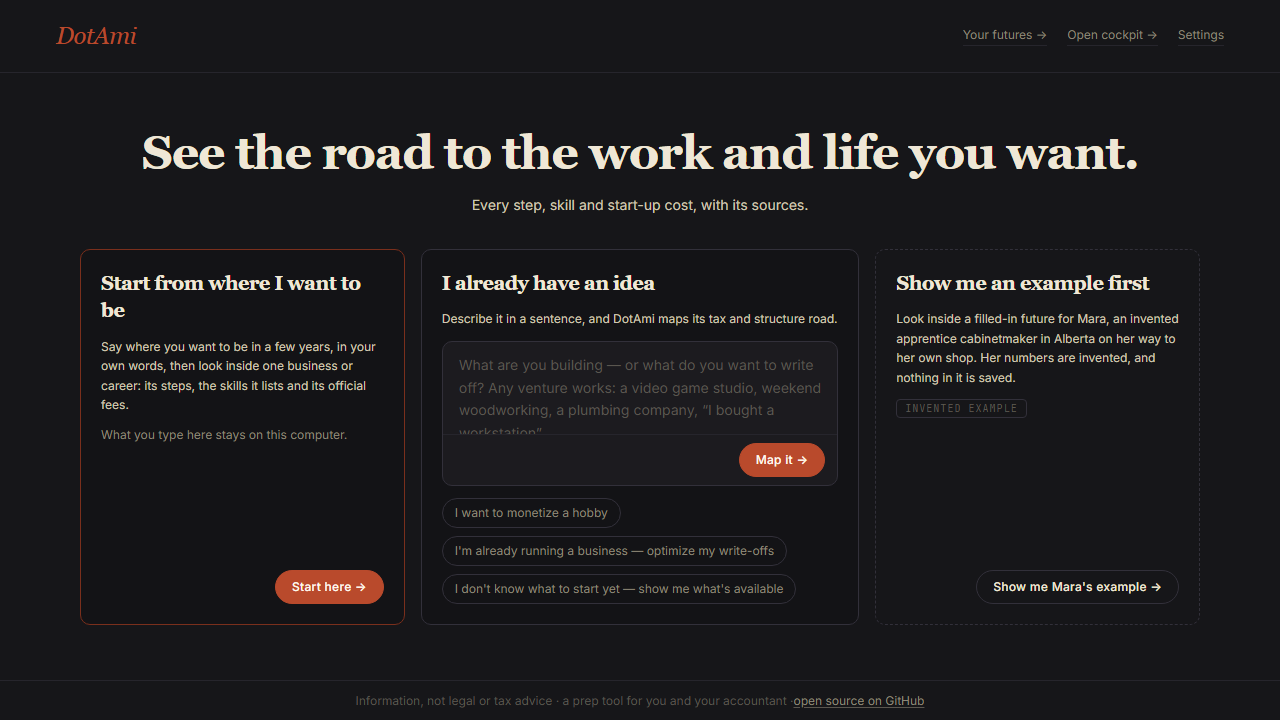
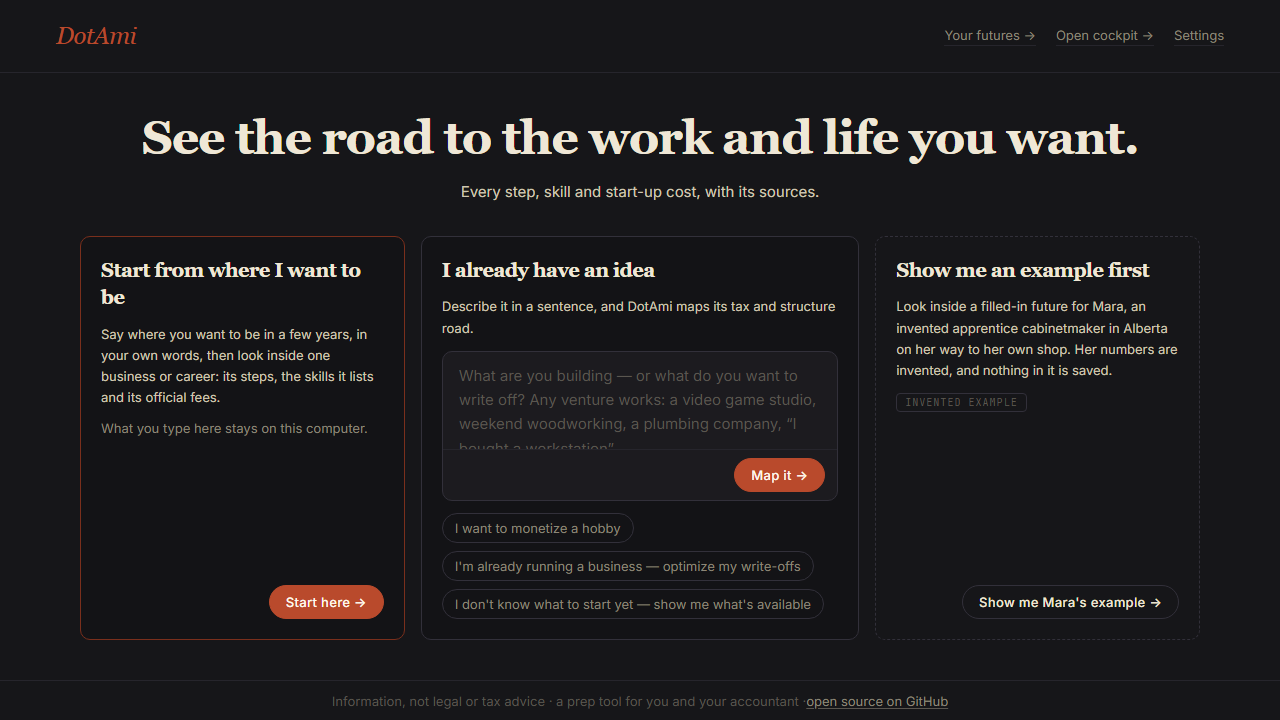
fix: no text smaller than before the type scale (body 13, lead 15, title 19, display 28)
A review found the type scale's first values took text a person reads
down a size from main: the default running text (app/layout.tsx and the
two journey layouts), Your plan's article, the front door's door bodies
and five cockpit panels 13 px to 12; the intake's and Your destination's
boxes, the map's column headings and the front door's subline 15 to 14;
Your plan's title 28 to 26.

Each named size is now the largest of the old sizes it stands in for:
body 13 (11-13 px and text-xs), lead 15 (14-15 and text-sm), title 19
(16-19, text-base, text-lg), display 28 (26-28); label 9.5 and small
10.5 already were. Still six sizes, so no screen counts more distinct
sizes and the smallest text is unchanged. Measured in Chromium, every
piece of text on nine main screens against main 6a4b4ed: 112 pieces
smaller by more than half a pixel before this, none after.

The site footer's side padding on a phone goes from 32 to 16 px, so its
line, now 13 px, stays on two lines inside its 40 px.

e2e/budgets.ts: the comment says what Chromium on Windows measures now
(controls within the budgets everywhere, under them at eight sizes) in
place of two Windows caveats and "controls measured the same as before",
and WINDOWS_EXTRA is empty again: Mara's example at laptop size counts
21 on Windows, within its budget. No budget changes. The after
screenshots in docs/media/type-scale/ are retaken.

diff --git a/e2e/budgets.ts b/e2e/budgets.ts
@@ -88,11 +88,9 @@ export const BASELINE: ClutterTable = {
  * own step cards (the first two columns), the four gauges, Next on your road's three steps and one button for
  * each folded thing; getting to 20 would mean hiding road cards or a way back to something folded (the pull
  * request explains). Text sizes 15 to 12, and the smallest text up from 8 to 8.5 px. Mara's example: 10 to 8
- * regions (9 to 7 on a phone), and controls 23 to 21 on a laptop (CI run 39077075677; Chromium on Windows counts 23 there, see
- * `WINDOWS_EXTRA`).
+ * regions (9 to 7 on a phone), and controls 23 to 21 on a laptop (CI run 39077075677).
  *
- * One control more on road 0, the same day (17, 32 and 29; Chromium on Windows counts 31 on a tablet, one fewer
- * than the gate there, as it did before): a review
+ * One control more on road 0, the same day (17, 32 and 29): a review
  * found Rules & tax two clicks away behind "Show more layers", so the Money and Rules & tax switches are drawn
  * again and that button is gone. Road 1 and Mara's example, on road 1, are unchanged: road 1 has no rules and tax
  * cards, so its Rules & tax switch is drawn but can't be pressed (it has nothing to show) and isn't counted.
@@ -128,8 +126,19 @@ export const BASELINE: ClutterTable = {
  * and 12 to 4, 5 and 5 (smallest 8.5 to 9.5 px), Mara's example 11, 13 and 13 to 5, the front door 8 to 6,
  * Your destination 4 to 3 (smallest 10 to 10.5 px), Pick a future 10 to 6 (10 to 10.5 px), the intake 6 to 5
  * (8.5 to 9.5 px), Your futures 9 to 7 (9 to 9.5 px), What DotAmi knows about you 11 to 7, and Your plan 10
- * to 5 (10 to 10.5 px). Regions and controls measured the same as before on every screen, and their budgets
- * stay where they were.
+ * to 5 (10 to 10.5 px). Regions and controls keep their budgets. A review found the scale's first values (body
+ * 12 px, lead 14, title 18, display 26) took text a person reads down a size from main: the default running
+ * text and every 13 px use to 12, 15 to 14, 28 to 26. Each value is now the largest of the old sizes it stands
+ * in for (body 13, lead 15, title 19, display 28), so no text is smaller than on main; the counts above stay,
+ * as each size only moved.
+ *
+ * Chromium on Windows, with those values (the full browser suite, 2026-10-19): regions, text sizes and the
+ * smallest text as budgeted on every screen, and controls in the first window within the budget everywhere,
+ * under it at eight sizes: the front door 10 on a tablet (the strip above the site footer, as before the
+ * scale), and, the larger body text pushing the last of them below the window, Your futures 9 on a phone and
+ * 13 on a laptop, Mara's example 25 on a tablet, the cockpit on road 0 17, 31 and 28, and on road 1 26 on a
+ * tablet. The budgets are the gate's numbers, measured on Ubuntu, so they are lowered from a CI run's, not
+ * from these.
  */
 export const BUDGETS: ClutterTable = {
   "front-door": { phone: m(4, 7, 6, 9.5), tablet: m(4, 11, 6, 9.5), laptop: m(4, 11, 6, 9.5) },
@@ -156,10 +165,8 @@ export type Extra = Partial<Pick<Clutter, "regions" | "controls" | "textSizes">>
  * Emptied on 2026-10-17: the one difference then (road 1 at laptop size, 30 controls on Windows and 27 on
  * Ubuntu) was three road cards showing only a sliver of their edge on Windows, which no longer count.
  *
- * Mara's example at laptop size, since the calm first view (2026-10-17): 23 controls on Windows, 21 on Ubuntu
- * (CI run 39077075677). Windows' text wraps a little shorter in the goal bar, so the road starts higher and
- * two more of its cards show enough to count.
+ * Emptied again on 2026-10-19: after the calm first view Mara's example at laptop size counted 23 controls
+ * on Windows and 21 on Ubuntu (CI run 39077075677), Windows' text wrapping a little shorter in the goal bar;
+ * with the type scale's body text Windows counts 21 there, within the budget, so its line is out.
  */
-export const WINDOWS_EXTRA: Partial<Record<ScreenId, Partial<Record<WidthId, Extra>>>> = {
-  "example-mara": { laptop: { controls: 2 } },
-};
+export const WINDOWS_EXTRA: Partial<Record<ScreenId, Partial<Record<WidthId, Extra>>>> = {};

diff --git a/app/globals.css b/app/globals.css
@@ -36,9 +36,11 @@
   /* The type scale (the maintainer's story S2.5.30d, 2026-10-17; docs/ui-spec/README.md, "The type
      scale"): six named sizes, used as text-label … text-display, in place of the twenty-three ad hoc
      sizes (text-[9px], text-[12.5px], …) the screens had grown. tests/type-scale.spec.ts refuses any
-     arbitrary size, and Tailwind's own text-xs, text-sm, text-base and text-lg, which these replace
-     (body is text-xs's 12px, lead text-sm's 14px, title text-lg's 18px, so screens drawn with those
-     look the same). Headlines keep Tailwind's larger steps, text-xl and up, where 26px is too small.
+     arbitrary size, and Tailwind's own text-xs, text-sm, text-base and text-lg, which these replace.
+     Each named size is the LARGEST of the old sizes it stands in for (label 8–9.5px, small 10–10.5,
+     body 11–13 and text-xs, lead 14–15 and text-sm, title 16–19, text-base and text-lg, display
+     26–28), so no text got smaller than it was: the default running text stays 13px, and text drawn
+     at 11 or 12px grows to it. Headlines keep Tailwind's larger steps, text-xl and up.
      Each size carries its line height as a LENGTH: v4 writes line heights as ratios, which children
      inherit as a ratio of their OWN size (a 9px label inside a 12px row got 12px instead of 16px, and
      rows across the map, the ideas page and the file panel came out 1–4px shorter); a length inherits
@@ -47,13 +49,13 @@
   --text-label--line-height: 13px;
   --text-small: 10.5px;
   --text-small--line-height: 14px;
-  --text-body: 12px;
+  --text-body: 13px;
   --text-body--line-height: 1rem;
-  --text-lead: 14px;
+  --text-lead: 15px;
   --text-lead--line-height: 1.25rem;
-  --text-title: 18px;
+  --text-title: 19px;
   --text-title--line-height: 1.75rem;
-  --text-display: 26px;
+  --text-display: 28px;
   --text-display--line-height: 2rem;
 
   /* v3's line heights for the Tailwind steps headlines still use, in rem, for the same reason. */

diff --git a/app/layout.tsx b/app/layout.tsx
@@ -43,8 +43,9 @@ export default async function RootLayout({
     <html lang="en" className={`${inter.variable} ${jetbrainsMono.variable}`}>
       <body className="min-h-screen bg-ink font-sans text-body leading-snug text-paper antialiased">
         {children}
-        {/* data-region: a block the clutter limit counts (docs/ui-spec/README.md, "The layout rule"). */}
-        <footer data-region="site-footer" className="flex h-10 shrink-0 items-center justify-center border-t border-rule-soft px-8 text-center text-body text-stone-dim md:px-14">
+        {/* data-region: a block the clutter limit counts (docs/ui-spec/README.md, "The layout rule").
+            px-4 on a phone: at the body size, 13 px, the line needs that room to stay on two lines in h-10. */}
+        <footer data-region="site-footer" className="flex h-10 shrink-0 items-center justify-center border-t border-rule-soft px-4 text-center text-body text-stone-dim md:px-14">
           Information, not legal or tax advice · a prep tool for you and your accountant ·{" "}
           <a
             href="https://github.com/Dot-Ami/dotami"

diff --git a/CHANGELOG.md b/CHANGELOG.md
@@ -56,18 +56,19 @@ Format: [Keep a Changelog](https://keepachangelog.com/en/1.1.0/).
   twenty-three ad hoc text sizes, from 8 px to 46 px with half-pixel neighbours among them, in 661 places;
   one screen drew fifteen distinct sizes. They are now six named sizes, theme tokens in
   [app/globals.css](app/globals.css) ([docs/ui-spec/README.md](docs/ui-spec/README.md), *The type scale*):
-  label 9.5 px, small 10.5, body 12, lead 14, title 18 and display 26, each with its line height, with
-  Tailwind's larger steps kept for headlines. Each old size went to the nearest named one, so the smallest
-  text on any screen is now 9.5 px (it was 8.5 px on the cockpit and the intake), the map's card lines and
-  most running text are 12 px where they were 11, and some text went down a size: the default running text
-  (`app/layout.tsx` and the two journey layouts, so everything that only inherits it), *Your plan*'s
-  article, the front door's three door bodies and five cockpit panels, 13 px to 12 (13 sits exactly between
-  body 12 and lead 14; the maintainer's to reverse); the intake's and *Your destination*'s boxes, the map's
-  column headings and the front door's subline, 15 to 14; and *Your plan*'s title, 28 to 26. Every screen
-  counts fewer distinct sizes: the cockpit
+  label 9.5 px, small 10.5, body 13, lead 15, title 19 and display 28, each with its line height, with
+  Tailwind's larger steps kept for headlines. Each old size went to the named size of its group, and each
+  named size is the largest of its group, so no text is smaller than it was: the default running text
+  (`app/layout.tsx` and the two journey layouts) stays 13 px, the smallest text on any screen is now 9.5 px
+  (it was 8.5 px on the cockpit and the intake), and the map's card lines and most running text are 13 px
+  where they were 11 or 12 (text-xs), headings 15 px where they were 14 (text-sm). Measured in Chromium,
+  every piece of text drawn on nine main screens at laptop size, against main: none of it smaller (the site
+  footer's side padding on a phone went from 32 to 16 px so its line, now 13 px, stays on two lines). Every
+  screen counts fewer distinct
+  sizes: the cockpit
   on a laptop 12 to 5, the front door 8 to 6, Mara's example 13 to 5, *What DotAmi knows about you* 11 to 7,
-  *Your plan* 10 to 5 (`e2e/budgets.ts` holds the new, lower limits; regions and controls measured the same
-  on every screen). A unit test refuses any new arbitrary size, and Tailwind's text-xs, text-sm, text-base
+  *Your plan* 10 to 5 (`e2e/budgets.ts` holds the new, lower limits; regions and controls keep their
+  budgets). A unit test refuses any new arbitrary size, and Tailwind's text-xs, text-sm, text-base
   and text-lg, which the named sizes stand in for. The map's and the cost panels' recordings are read with
   the new names put in for the old classes, so they are not re-recorded. Screenshots before and after, the
   cockpit on road 0 and the front door at phone, tablet and laptop sizes, are in

diff --git a/docs/ui-spec/README.md b/docs/ui-spec/README.md
@@ -90,18 +90,22 @@ Six named text sizes, and no others. They are Tailwind theme tokens in `app/glob
 |---|---|---|---|
 | `text-label` | 9.5 px | 13 px | kickers and chips: the mono, uppercase, tracked labels over a block or on a card |
 | `text-small` | 10.5 px | 14 px | notes under a field, the legend, a secondary line |
-| `text-body` | 12 px | 16 px | running text, buttons, rows, the map's card lines (Tailwind's `text-xs`) |
-| `text-lead` | 14 px | 20 px | card and column headings, the intake's box, a page's subline (`text-sm`) |
-| `text-title` | 18 px | 28 px | section headings, a quoted sentence (`text-lg`) |
-| `text-display` | 26 px | 32 px | page titles |
+| `text-body` | 13 px | 16 px | running text (the page's default), buttons, rows, the map's card lines (in place of Tailwind's `text-xs`) |
+| `text-lead` | 15 px | 20 px | card and column headings, the intake's box, a page's subline (in place of `text-sm`) |
+| `text-title` | 19 px | 28 px | section headings, a quoted sentence (in place of `text-lg`) |
+| `text-display` | 28 px | 32 px | page titles |
 
 Headlines larger than that (the front door's hero, a door's title, the word mark) keep Tailwind's own steps,
 `text-xl` and up. Before this the screens had grown twenty-three ad hoc sizes (`text-[8px]` to `text-[46px]`,
 in 661 places, half-pixel neighbours among them), and one screen counted fifteen distinct sizes. Each old
-size went to the nearest named one (`tests/helpers/type-scale-renames.ts` has the whole table): 8–9.5 px to
-label, 10–10.5 to small, 11–13 to body, 14–15 to lead, 16–19 to title, 26–28 to display, and the few above
-to Tailwind's steps. The smallest text on any screen is now 9.5 px (the baseline's was 8 px; 8.5 px after the
-calm first view). `tests/type-scale.spec.ts` refuses any arbitrary size written as a class (`text-[9px]`,
+size went to the named size of its group (`tests/helpers/type-scale-renames.ts` has the whole table): 8–9.5 px
+to label, 10–10.5 to small, 11–13 (and `text-xs`, 12) to body, 14–15 (and `text-sm`, 14) to lead, 16–19 (and
+`text-base`, `text-lg`) to title, 26–28 to display, and the few above to Tailwind's steps. Each named size is
+the largest size of its group, so no text is smaller than it was before the scale: the page's default running
+text stays 13 px, and text that was 11 or 12 px grows to it (a first version set body at 12 px, lead 14, title
+18 and display 26, which took the default running text, *Your plan* and the front door's door bodies down a
+pixel; a review found it). The smallest text on any screen is now 9.5 px (the baseline's was 8 px; 8.5 px
+after the calm first view). `tests/type-scale.spec.ts` refuses any arbitrary size written as a class (`text-[9px]`,
 `text-[0.7rem]`, `text-[length:…]`) and the four Tailwind sizes the named ones replaced, with a control that
 plants each kind. A new size is a change to the scale, made in the theme and in this table, never in a
 component.

diff --git a/docs/task-list.md b/docs/task-list.md
@@ -335,16 +335,15 @@ and the maintainer's six decisions of 2026-10-11:
     maintainer, 2026-10-17: *"Accept the clutter budgets where they landed."* `e2e/budgets.ts` holds those
     numbers, and they can only go down from here.
   - [x] Six named text sizes in place of the ad hoc ones (S2.5.30d, 2026-10-17): `text-label` 9.5 px,
-    `text-small` 10.5, `text-body` 12, `text-lead` 14, `text-title` 18 and `text-display` 26, theme tokens in
+    `text-small` 10.5, `text-body` 13, `text-lead` 15, `text-title` 19 and `text-display` 28, theme tokens in
     `app/globals.css`, each with its line height, in place of 661 arbitrary sizes of 23 values (and Tailwind's
     text-xs, text-sm, text-base and text-lg, which they stand in for); headlines keep Tailwind's text-xl and up.
     `tests/type-scale.spec.ts` refuses a new arbitrary size; `tests/helpers/type-scale-renames.ts` reads the
     map's and the cost panels' recordings with the new names so they aren't re-recorded. The smallest text on
     every screen is now at least 9.5 px, and the text-size counts in `e2e/budgets.ts` went down on every screen
-    ([ui-spec/README.md](ui-spec/README.md), *The type scale*). Down a size, for the maintainer to keep or
-    reverse: the default running text (`app/layout.tsx` and the two journey layouts), *Your plan*'s article
-    and the front door's door bodies, 13 px to 12; the intake's and *Your destination*'s boxes and the map's
-    column headings, 15 to 14; *Your plan*'s title, 28 to 26
+    ([ui-spec/README.md](ui-spec/README.md), *The type scale*). Each named size is the largest of the old
+    sizes it stands in for, so no text is smaller than before: the default running text stays 13 px, and
+    text that was 11 or 12 px grows to it
   - [x] The cockpit rail's sentences moved into `lib/cockpit/words.ts` (S2.5.30e, 2026-10-17): the rail's,
     the header's, the empty cockpit's and the map's chips, card names and legend (68 pieces of text in five
     files), the text on screen unchanged; `tests/cockpit-own-words.spec.ts` reads every file in
